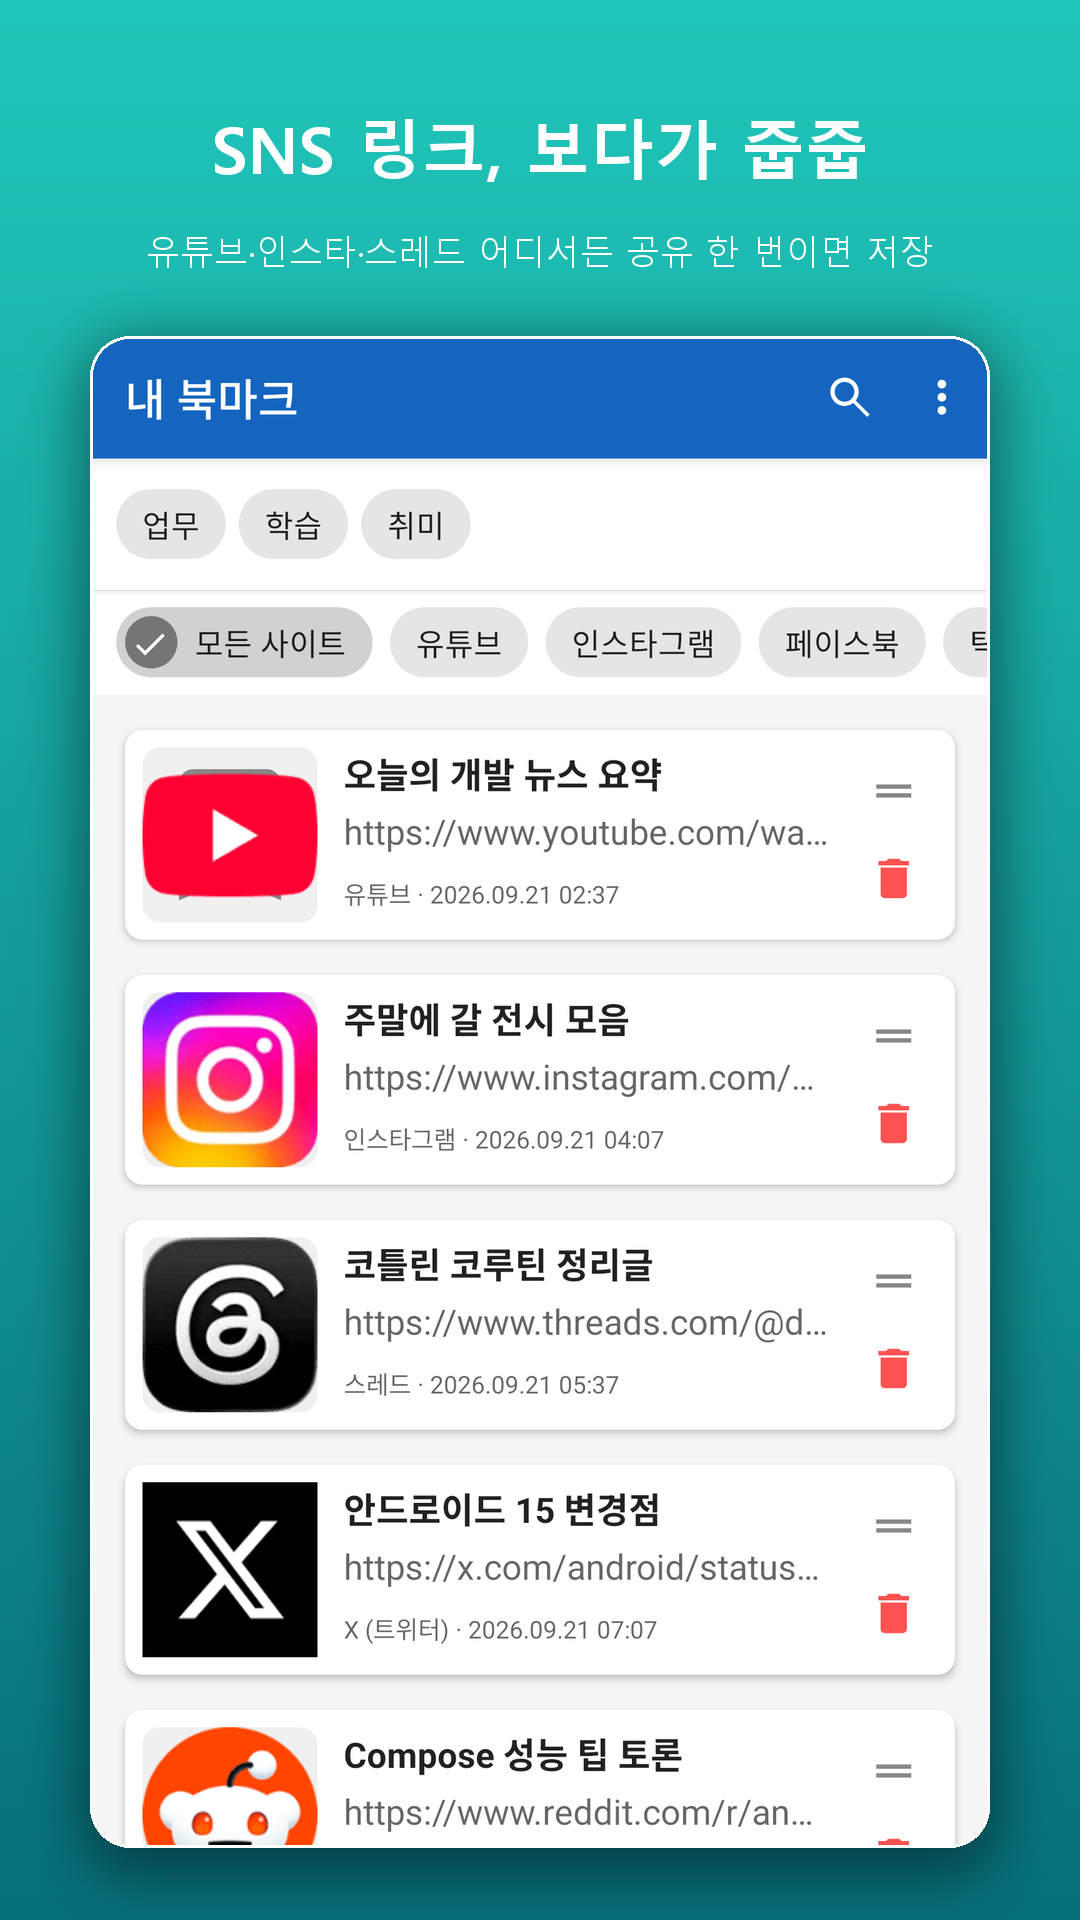
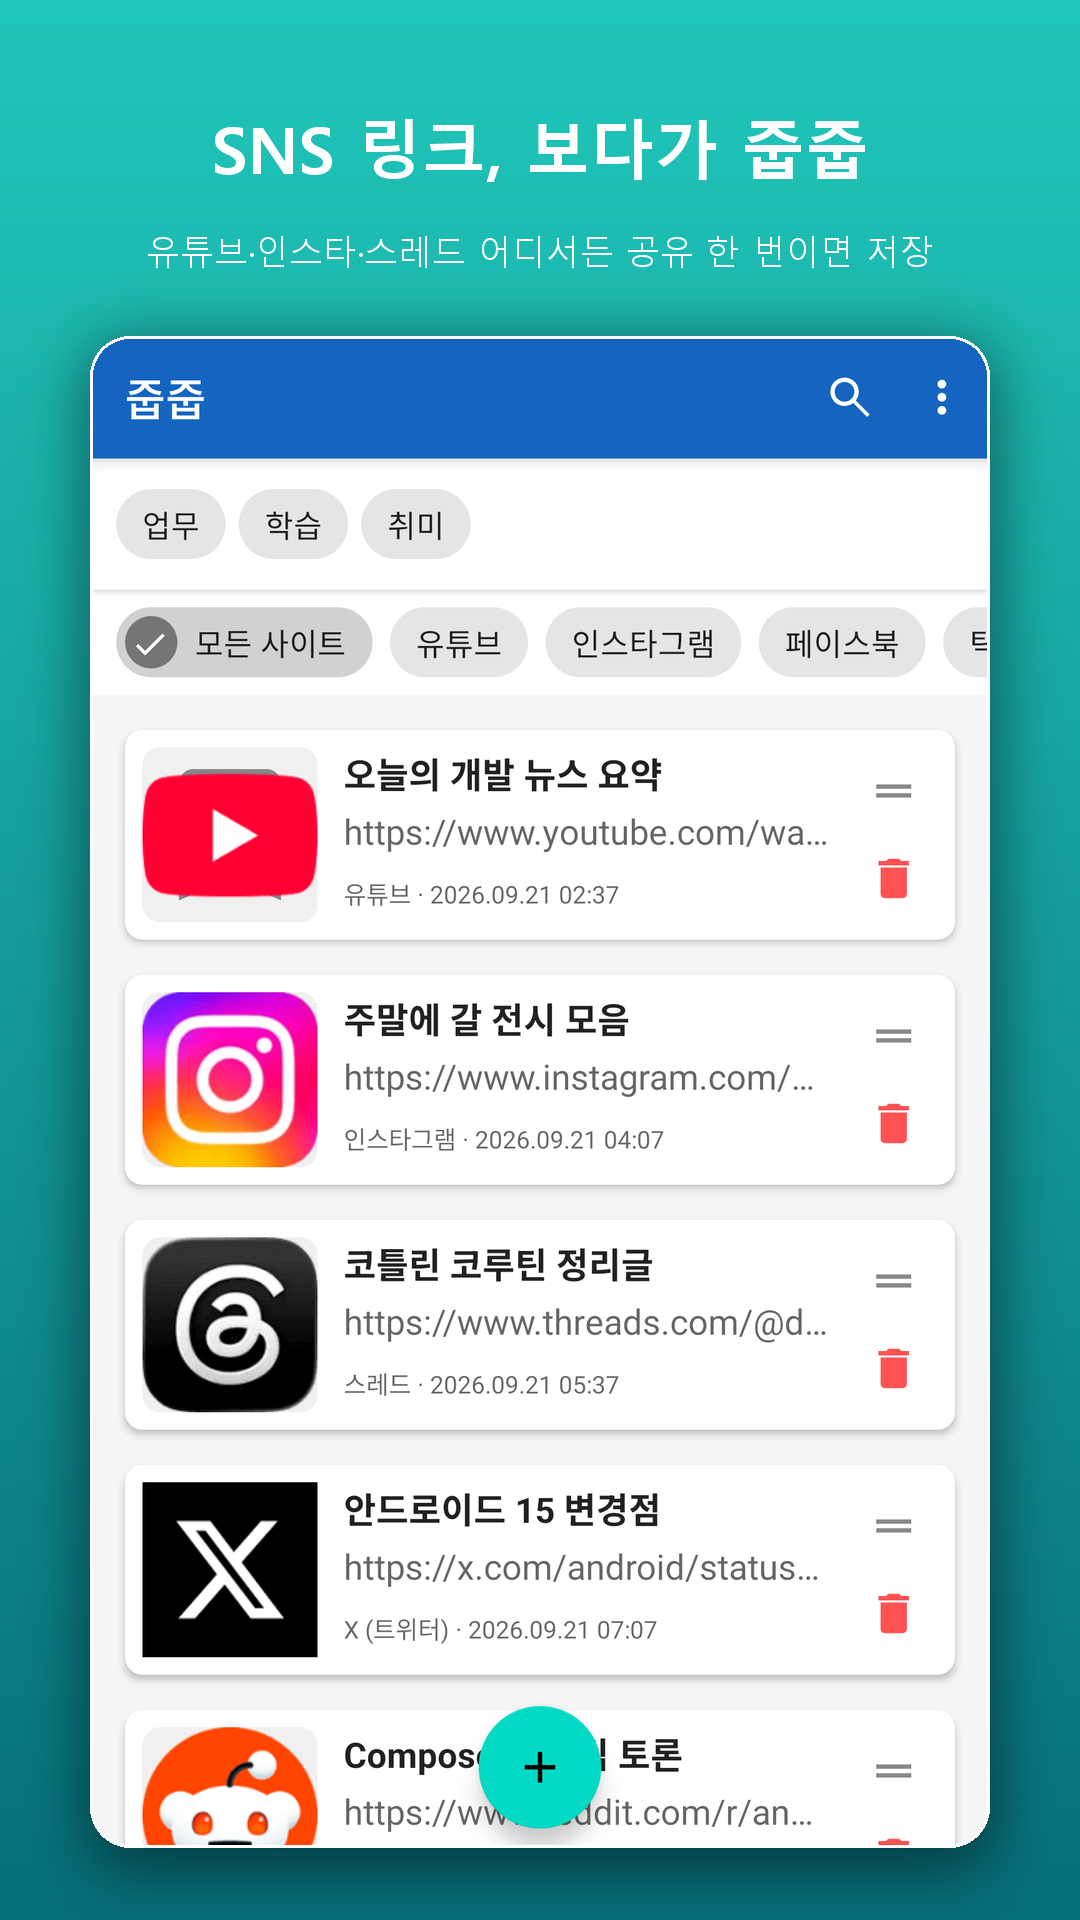
메인 화면 툴바 제목을 앱 이름(줍줍)으로 통일
- 하드코딩된 "내 북마크"를 R.string.app_name 으로 교체.
  앞으로 이름을 바꾸면 런처·툴바·다중 선택 해제 후 제목이 한 번에 따라간다.
- 새 제목이 보이는 상태로 스토어 스크린샷과 그래픽 이미지 재생성

Changed region(s): [[0.4278, 0.875, 0.5806, 0.9688], [0.1222, 0.1875, 0.275, 0.2188]]

diff --git a/app/src/main/java/com/gameitstudio/dwbookmarkapp/ui/MainActivity.kt b/app/src/main/java/com/gameitstudio/dwbookmarkapp/ui/MainActivity.kt
@@ -290,7 +290,7 @@ class MainActivity : AppCompatActivity() {
      */
     private fun setupToolbar() {
         setSupportActionBar(binding.toolbar)
-        supportActionBar?.title = "내 북마크"
+        supportActionBar?.title = getString(R.string.app_name)
     }
 
     override fun onCreateOptionsMenu(menu: Menu): Boolean {
@@ -341,7 +341,7 @@ class MainActivity : AppCompatActivity() {
     private fun refreshSelection() {
         val active = viewModel.selecting.value == true
         bookmarkAdapter.setSelection(active, (viewModel.selectedIds.value ?: longArrayOf()).toSet())
-        supportActionBar?.title = if (active) "${(viewModel.selectedIds.value ?: longArrayOf()).size}개 선택" else "내 북마크"
+        supportActionBar?.title = if (active) "${(viewModel.selectedIds.value ?: longArrayOf()).size}개 선택" else getString(R.string.app_name)
         binding.fabAdd.isVisible = !active
         binding.folderChips.isEnabled = viewModel.bulkBusy.value != true
         if (binding.toolbar.menu.size() > 0) onPrepareOptionsMenu(binding.toolbar.menu)
